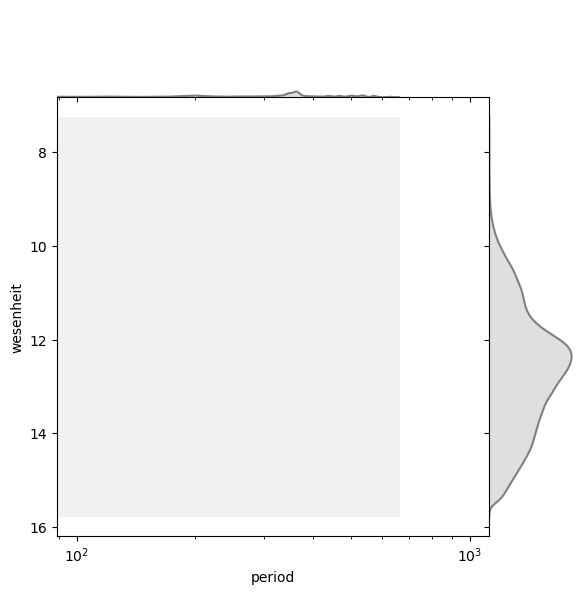
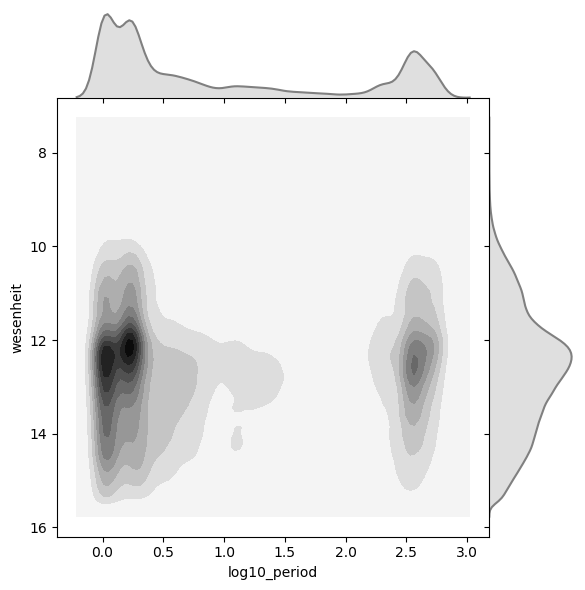
new graphs

diff --git a/red variable testing.py b/red variable testing.py
@@ -8,7 +8,8 @@ import seaborn as sns
 makePlot = False
 makePlot2 = False
 makePlot3 = False
-makePlot4 = True
+makePlot4 = False
+makePlot5 = True
 
 # vvv_data_files = 'results*.csv'
 # files_collection = np.array(list(glob.iglob(vvv_data_files, recursive=True)))
@@ -87,12 +88,33 @@ for vvv_file in files_collection:
         # g.ax_joint.invert_yaxis()
         # plt.show()
 
-        g = sns.JointGrid('period', 'wesenheit', per_clipped)
-        #g.plot_marginals(sns.distplot, hist=True, kde=True, color='blue',bins=mybins)
-        g.plot_joint(plt.scatter, color='black', edgecolor='black')
-        ax = g.ax_joint
-        ax.set_xscale('log')
-        ax.set_yscale('log')
-        g.ax_marg_x.set_xscale('log')
-        g.ax_marg_y.set_yscale('log')
+        g = sns.jointplot(x=per_clipped["log10_period"], y=per_clipped["wesenheit"], kind='hex')
+        g.ax_joint.invert_yaxis()
         g.savefig('Long Period Red Stars/WesenheitVSPeriod Focused 2.png')
+
+        plt.hexbin(per_clipped["log10_period"], per_clipped["wesenheit"], gridsize=(50,50))
+        plt.colorbar()
+        plt.savefig('Long Period Red Stars/WesenheitVSPeriod Focused 3.png')
+
+        plt.hexbin(per_clipped["log10_period"], per_clipped["wesenheit"], gridsize=(25,25))
+        plt.colorbar()
+        plt.savefig('Long Period Red Stars/WesenheitVSPeriod Focused 4.png')
+
+    per_clipped = per_clipped[per_clipped['period'] > 5]
+    print(per_clipped)
+    if makePlot5:
+        g = sns.jointplot(x=per_clipped["log10_period"], y=per_clipped["wesenheit"], kind='kde', color="grey", space=0)
+        g.ax_joint.invert_yaxis()
+        g.savefig('Long Period Red Stars/WesenheitVSPeriod Focused Long.png')
+
+        g = sns.jointplot(x=per_clipped["log10_period"], y=per_clipped["wesenheit"], kind='hex')
+        g.ax_joint.invert_yaxis()
+        g.savefig('Long Period Red Stars/WesenheitVSPeriod Focused Long 2.png')
+
+        plt.hexbin(per_clipped["log10_period"], per_clipped["wesenheit"], gridsize=(50,50))
+        plt.colorbar()
+        plt.savefig('Long Period Red Stars/WesenheitVSPeriod Focused Long 3.png')
+
+        plt.hexbin(per_clipped["log10_period"], per_clipped["wesenheit"], gridsize=(25,25))
+        plt.colorbar()
+        plt.savefig('Long Period Red Stars/WesenheitVSPeriod Focused Long 4.png')
